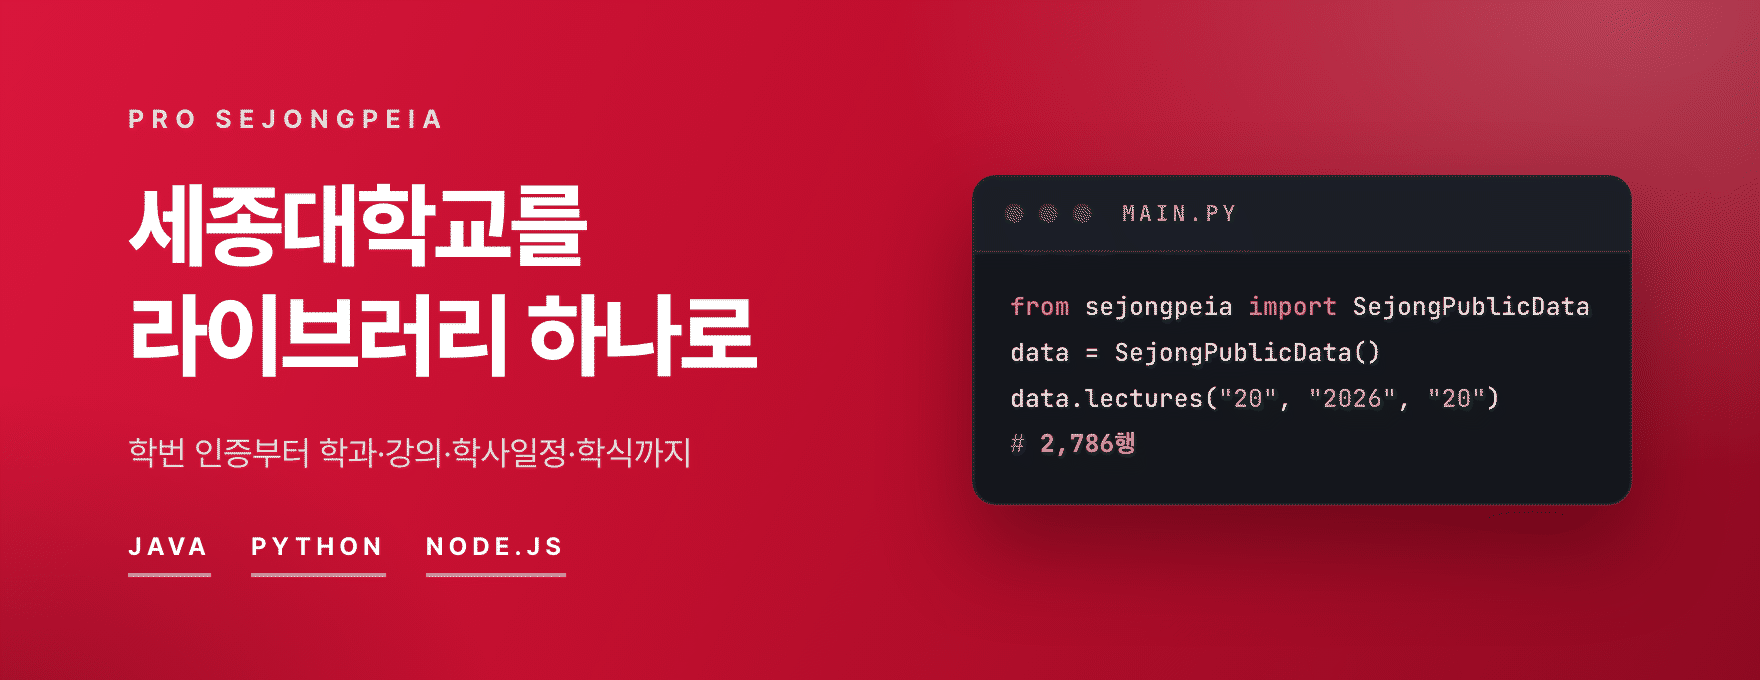
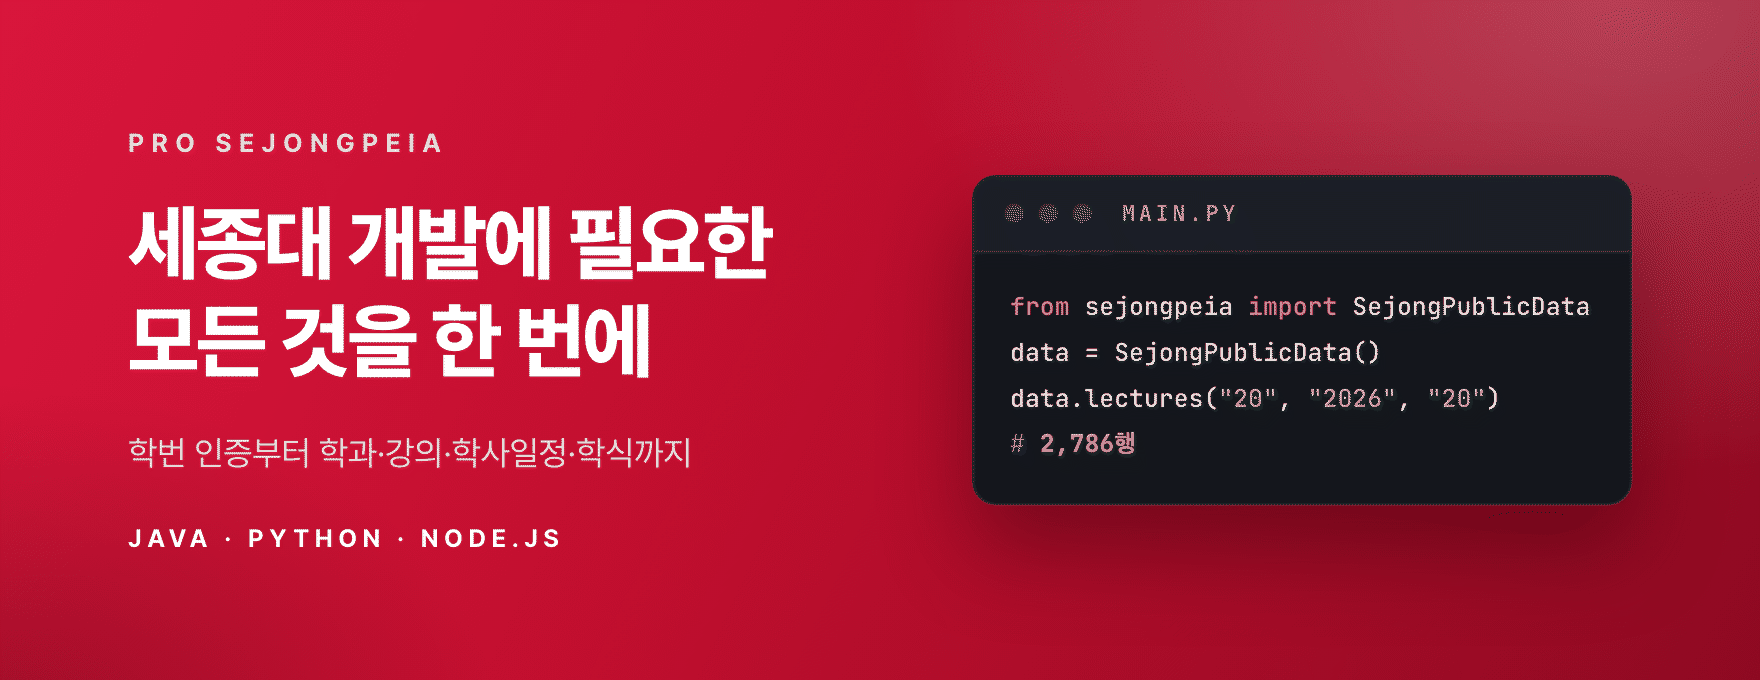
README 첫 화면에 기능·강점을 드러내고 배너를 새로 만들기 : docs : 대표 문구를 '세종대 개발에 필요한 모든 것을 한 번에'로 교체하고 Maven Central 배지 주소 수정 https://github.com/Cassiiopeia/pro-sejongpeia/issues/126

diff --git a/scripts/banner/banner.html b/scripts/banner/banner.html
@@ -2,7 +2,7 @@
 <!--
   README·공유 이미지 배너 원본 (단일 원본). PNG 는 scripts/generate-banner.py 가 이 파일을 헤드리스 Chrome 으로 렌더링해 만든다.
   주소 인자: ?variant=a|b|c  &lang=ko|en  &layout=banner|og
-  규칙: 크림슨이 주인공, 요소는 적게 (워드마크, 제목, 한 줄 소개, 코드 창, 칩), 영문은 모두 대문자, 교표는 넣지 않음 (README 맨 위에 따로 있음)
+  규칙: 크림슨이 주인공, 요소는 적게 (워드마크, 제목, 한 줄 소개, 언어 이름, 코드 창), 영문은 모두 대문자, 교표는 넣지 않음 (README 맨 위에 따로 있음)
   문구는 아래 COPY 한 곳에서만 고친다 (코드 창의 2,786 은 2026-10-30 학부 2026학년도 2학기 실측값)
 -->
 <html lang="ko">
@@ -36,13 +36,13 @@
   /* 왼쪽: 워드마크, 제목, 한 줄 소개, 칩 */
   .copy { position: relative; z-index: 1; width: 400px; }
   .wordmark { font-size: 13px; font-weight: 700; letter-spacing: 0.28em; text-transform: uppercase; color: var(--text-sub); }
-  h1 { margin-top: 18px; font-size: 46px; line-height: 1.2; font-weight: 800; letter-spacing: -0.035em; color: var(--text-main); }
+  h1 { margin-top: 18px; font-size: 41px; line-height: 1.2; font-weight: 800; letter-spacing: -0.035em; color: var(--text-main); }
   h1 em { font-style: normal; color: var(--accent-text); }
-  html[lang="en"] h1 { font-size: 35px; line-height: 1.22; letter-spacing: -0.01em; text-transform: uppercase; font-weight: 800; }
+  html[lang="en"] h1 { font-kerning: normal; text-rendering: optimizeLegibility; font-size: 31px; line-height: 1.25; letter-spacing: 0.01em; text-transform: uppercase; font-weight: 800; }
+  .tight { letter-spacing: -0.07em; }
   .sub { margin-top: 18px; font-size: 17px; line-height: 1.55; word-break: keep-all; color: var(--text-sub); letter-spacing: -0.01em; }
   html[lang="en"] .sub { font-size: 13px; letter-spacing: 0.14em; text-transform: uppercase; font-weight: 600; line-height: 1.8; }
-  .chips { display: flex; gap: 20px; margin-top: 26px; }
-  .chip { font-size: 12.5px; font-weight: 700; letter-spacing: 0.2em; text-transform: uppercase; color: var(--text-main); padding-bottom: 6px; border-bottom: 2px solid var(--chip-line); }
+  .languages { margin-top: 22px; font-size: 12.5px; font-weight: 700; letter-spacing: 0.22em; text-transform: uppercase; color: var(--text-main); }
 
   /* 오른쪽: 코드 창 하나 */
   .window { position: relative; z-index: 1; width: 330px; border-radius: 12px; background: var(--window-background); border: 1px solid var(--window-border); box-shadow: var(--window-shadow); overflow: hidden; }
@@ -56,7 +56,7 @@
   body[data-variant="a"] {
     --stage-background: linear-gradient(115deg, #D9163C 0%, #C20F2F 42%, #8E0A22 100%);
     --stage-decoration: radial-gradient(520px 340px at 92% 0%, rgba(255,255,255,0.22), transparent 70%), radial-gradient(360px 260px at 0% 110%, rgba(60,0,12,0.35), transparent 70%);
-    --text-main: #FFFFFF; --text-sub: rgba(255,255,255,0.84); --text-faint: #8B93A3; --accent-text: #FFFFFF; --chip-line: rgba(255,255,255,0.55);
+    --text-main: #FFFFFF; --text-sub: rgba(255,255,255,0.84); --text-faint: #8B93A3; --accent-text: #FFFFFF; 
     --window-background: #14161C; --window-border: rgba(255,255,255,0.10); --window-bar: #1B1E26; --window-dot: #343A47; --window-shadow: 0 22px 44px rgba(50,0,10,0.45);
     --code-text: #D7DBE4; --code-keyword: #FF7A90; --code-string: #7FD6A8; --code-comment: #6F7889; --code-number: #FFD27A;
   }
@@ -64,7 +64,7 @@
   body[data-variant="b"] {
     --stage-background: linear-gradient(120deg, #A30D27 0%, #7A0A1F 55%, #4E0614 100%);
     --stage-decoration: radial-gradient(480px 320px at 88% 10%, rgba(255,75,103,0.35), transparent 70%);
-    --text-main: #FFFFFF; --text-sub: rgba(255,255,255,0.80); --text-faint: #8A95A3; --accent-text: #FFB3C0; --chip-line: rgba(255,179,192,0.6);
+    --text-main: #FFFFFF; --text-sub: rgba(255,255,255,0.80); --text-faint: #8A95A3; --accent-text: #FFB3C0; 
     --window-background: #FFFFFF; --window-border: rgba(255,255,255,0.4); --window-bar: #F6F1EE; --window-dot: #D9D2CB; --window-shadow: 0 22px 44px rgba(30,0,6,0.5);
     --code-text: #2B3745; --code-keyword: #C20F2F; --code-string: #1F7A4D; --code-comment: #8A95A3; --code-number: #A15B00;
   }
@@ -72,7 +72,7 @@
   body[data-variant="c"] {
     --stage-background: #FBF8F4;
     --stage-decoration: linear-gradient(115deg, transparent 0 56%, #C20F2F 56% 100%), radial-gradient(420px 300px at 100% 0%, rgba(255,255,255,0.25), transparent 70%);
-    --text-main: #1B2733; --text-sub: #4A5868; --text-faint: #8B93A3; --accent-text: #C20F2F; --chip-line: #C20F2F;
+    --text-main: #1B2733; --text-sub: #4A5868; --text-faint: #8B93A3; --accent-text: #C20F2F; 
     --window-background: #14161C; --window-border: rgba(255,255,255,0.10); --window-bar: #1B1E26; --window-dot: #343A47; --window-shadow: 0 22px 44px rgba(50,0,10,0.35);
     --code-text: #D7DBE4; --code-keyword: #FF7A90; --code-string: #7FD6A8; --code-comment: #6F7889; --code-number: #FFD27A;
   }
@@ -84,7 +84,7 @@
     <div class="wordmark">Pro Sejongpeia</div>
     <h1 id="title"></h1>
     <p class="sub" id="sub"></p>
-    <div class="chips"><span class="chip">Java</span><span class="chip">Python</span><span class="chip">Node.js</span></div>
+    <p class="languages">Java · Python · Node.js</p>
   </div>
   <div class="window">
     <div class="window-bar"><span></span><span></span><span></span><b>main.py</b></div>
@@ -97,8 +97,8 @@ data.lectures(<span class="s">"20"</span>, <span class="s">"2026"</span>, <span 
 <script>
   // 문구 단일 원본 (영문은 CSS 로 대문자 처리)
   const COPY = {
-    ko: { title: '세종대학교를<br><em>라이브러리 하나로</em>', sub: '학번 인증부터 학과·강의·학사일정·학식까지', rows: '2,786행' },
-    en: { title: 'Sejong University<br><em>in one library</em>', sub: 'Student login · departments · lectures<br>calendar · cafeteria · campus', rows: '2,786 rows' },
+    ko: { title: '세종대 개발에 필요한<br><em>모든 것을 한 번에</em>', sub: '학번 인증부터 학과·강의·학사일정·학식까지', rows: '2,786행' },
+    en: { title: 'EVER<span class="tight">Y</span>THING you need<br>to build on<br><em>Sejong University</em>', sub: 'Student login · departments · lectures<br>calendar · cafeterias', rows: '2,786 rows' },
   };
   const query = new URLSearchParams(location.search);
   const variant = query.get('variant') || 'a', language = query.get('lang') || 'ko', layout = query.get('layout') || 'banner';

diff --git a/website/src/i18n/landing/heroCopy.ts b/website/src/i18n/landing/heroCopy.ts
@@ -9,10 +9,10 @@ export const HERO_COPY: Record<LandingLocale, HeroSectionsCopy> = {
   ko: {
     hero: {
       eyebrow: 'Pro Sejongpeia · 세종대 개발자들의 작은 유토피아',
-      titleLine: '세종대학교를',
-      titleEmphasis: '라이브러리 하나로',
-      lead: '학번 인증과 학교 공개 데이터 15가지(학과·강의·학사일정·기숙사·학식·캠퍼스·비교과)를 Java, Python, Node.js 호출 한 번으로. 같은 메서드, 같은 결과입니다.',
-      tagline: '빠르고 가볍게 · 요청은 아끼고 · 비밀번호는 저장하지 않고 · 매일 실제 포털로 점검',
+      titleLine: '세종대 개발에 필요한',
+      titleEmphasis: '모든 것을 한 번에',
+      lead: '학번 인증부터 학과·강의·학사일정·학식까지. 학교 공개 데이터 15가지를 Java · Python · Node.js에서 같은 메서드, 같은 결과로 받습니다.',
+      tagline: '가볍고 빠르게 · 요청은 아끼고 · 비밀번호는 저장하지 않고 · 매일 실제 포털로 점검',
       visualRowsComment: `${SCHOOL_DATA_SNAPSHOT.lectureRowCount}행`,
       tryDemo: '바로 체험하기',
       quickStart: '빠른 시작',
@@ -40,9 +40,9 @@ export const HERO_COPY: Record<LandingLocale, HeroSectionsCopy> = {
   en: {
     hero: {
       eyebrow: 'Pro Sejongpeia · A little utopia for Sejong developers',
-      titleLine: 'Sejong University',
-      titleEmphasis: 'in one library',
-      lead: 'Student verification and 15 kinds of public school data (departments, lectures, calendar, dormitory, cafeterias, campus, extracurricular) in one call from Java, Python or Node.js. The same methods, the same results.',
+      titleLine: 'Everything you need',
+      titleEmphasis: 'to build on Sejong University',
+      lead: 'From student login to departments, lectures, the academic calendar and cafeterias. 15 kinds of public school data, with the same methods and the same results in Java · Python · Node.js.',
       tagline: 'Fast and light · gentle on requests · never stores a password · checked against the real portal daily',
       visualRowsComment: `${SCHOOL_DATA_SNAPSHOT.lectureRowCount} rows`,
       tryDemo: 'Try it live',

diff --git a/website/src/i18n/landing/constants.ts b/website/src/i18n/landing/constants.ts
@@ -21,7 +21,7 @@ export const SCHOOL_DATA_SNAPSHOT = {
 export const PACKAGE_BADGES = [
   {
     name: 'Maven Central',
-    imageUrl: 'https://img.shields.io/maven-central/v/kr.suhsaechan/sejongpeia?label=Maven%20Central&color=C20F2F',
+    imageUrl: 'https://img.shields.io/maven-metadata/v?metadataUrl=https%3A%2F%2Frepo1.maven.org%2Fmaven2%2Fkr%2Fsuhsaechan%2Fsejongpeia%2Fmaven-metadata.xml&label=Maven%20Central&color=C20F2F',
     linkUrl: 'https://central.sonatype.com/artifact/kr.suhsaechan/sejongpeia',
   },
   {

diff --git a/website/src/styles/custom.css b/website/src/styles/custom.css
@@ -120,6 +120,11 @@ body {
   margin: 1.1rem 0 1rem !important;
   color: #fff;
 }
+:root[lang='en'] .landing-hero__title {
+  font-size: clamp(1.7rem, 4.8vw, 2.7rem);
+  letter-spacing: 0;
+  text-transform: uppercase;
+}
 .landing-hero__title em {
   font-style: normal;
   color: #fff;

diff --git a/README.md b/README.md
@@ -2,10 +2,11 @@
 
 <img src="docs/assets/sejong-seal.png" alt="Sejong University seal" width="120">
 
-<img src="docs/assets/banner/banner-a.ko.png" alt="pro-sejongpeia: 세종대학교를 라이브러리 하나로. 학번 인증과 학과·강의·학사일정·학식·캠퍼스 데이터를 Java, Python, Node.js로" width="880">
+<img src="docs/assets/banner/banner-a.ko.png" alt="pro-sejongpeia: 세종대 개발에 필요한 모든 것을 한 번에. 학번 인증부터 학과·강의·학사일정·학식까지, Java · Python · Node.js" width="880">
 
-**세종대 학번 인증과 학교 공개 데이터 15가지를 Java · Python · Node.js 호출 한 번으로.**
-빠르고 가볍게 · 요청은 아끼고 · 비밀번호는 저장하지 않고 · 매일 실제 포털로 점검합니다.
+**세종대 개발에 필요한 모든 것을 한 번에.**
+학번 인증부터 학과·강의·학사일정·학식까지, Java · Python · Node.js 호출 한 번으로 받습니다.
+가볍고 빠르며, 요청은 아끼고, 비밀번호는 저장하지 않으며, 매일 실제 포털로 점검합니다.
 
 <sub>세종대 로그인 API · 세종대학교 포털 인증 · 학번 인증 · 학교 데이터 라이브러리</sub>
 
@@ -14,7 +15,7 @@
 <!-- AUTO-VERSION-SECTION: DO NOT EDIT MANUALLY -->
 ## 최신 버전 : v1.2.61 (2026-10-30)
 
-[![Maven Central](https://img.shields.io/maven-central/v/kr.suhsaechan/sejongpeia?label=Maven%20Central&color=C20F2F)](https://central.sonatype.com/artifact/kr.suhsaechan/sejongpeia)
+[![Maven Central](https://img.shields.io/maven-metadata/v?metadataUrl=https%3A%2F%2Frepo1.maven.org%2Fmaven2%2Fkr%2Fsuhsaechan%2Fsejongpeia%2Fmaven-metadata.xml&label=Maven%20Central&color=C20F2F)](https://central.sonatype.com/artifact/kr.suhsaechan/sejongpeia)
 [![PyPI](https://img.shields.io/pypi/v/pro-sejongpeia?label=PyPI&color=324D60)](https://pypi.org/project/pro-sejongpeia/)
 [![npm](https://img.shields.io/npm/v/pro-sejongpeia?label=npm&color=324D60)](https://www.npmjs.com/package/pro-sejongpeia)
 [![License: MIT](https://img.shields.io/badge/License-MIT-324D60)](LICENSE)
@@ -61,7 +62,7 @@
 - **비밀번호를 저장하지 않습니다.** 포털 로그인 요청에만 쓰고, 오류 메시지에 담기지 않습니다 (테스트 `test_error_message_never_contains_password`).
 - **첫 실패에서 멈춥니다.** 비밀번호가 틀리면 재시도 없이 `AUTHENTICATION_FAILED`로 끝내 계정 잠금을 피하고, 잠긴 계정은 `ACCOUNT_LOCKED`로 알려 줍니다.
 - SIS 부가 필드(`extra`)에서 세션값·접속 IP·계정 상태·주민번호·계좌·주소·직원 이름을 **항상 제외**하고, 학교 서버의 내부 오류 정보는 돌려주지 않습니다.
-- 학교 서버가 실패해도 앱은 안 흔들립니다. 공개 데이터는 예외 대신 마지막 캐시 값이나 빈 목록을 줍니다.
+- 학교 서버가 실패해도 앱이 흔들리지 않습니다. 공개 데이터는 예외 대신 마지막 캐시 값이나 빈 목록을 줍니다.
 
 ### ✅ 믿을 수 있게
 
@@ -183,7 +184,7 @@ System.out.println(result.getName() + " " + result.getMajor() + " " + result.get
 
 ## 빠른 시작: Java / Spring Boot
 
-[![Maven Central](https://img.shields.io/maven-central/v/kr.suhsaechan/sejongpeia?label=Maven%20Central&color=C20F2F)](https://central.sonatype.com/artifact/kr.suhsaechan/sejongpeia)
+[![Maven Central](https://img.shields.io/maven-metadata/v?metadataUrl=https%3A%2F%2Frepo1.maven.org%2Fmaven2%2Fkr%2Fsuhsaechan%2Fsejongpeia%2Fmaven-metadata.xml&label=Maven%20Central&color=C20F2F)](https://central.sonatype.com/artifact/kr.suhsaechan/sejongpeia)
 
 **Maven Central**에서 배포합니다 (저장소 추가 불필요). Java 17+, Spring Boot 3.x. Spring Boot 자동 설정이 `SuhSejongAuthEngine`과 `SejongPublicData` 빈을 등록합니다.
 

diff --git a/README.en.md b/README.en.md
@@ -2,16 +2,17 @@
 
 <img src="docs/assets/sejong-seal.png" alt="Sejong University seal" width="120">
 
-<img src="docs/assets/banner/banner-a.en.png" alt="pro-sejongpeia: Sejong University in one library. Student login verification plus departments, lectures, academic calendar, cafeteria and campus data for Java, Python and Node.js" width="880">
+<img src="docs/assets/banner/banner-a.en.png" alt="pro-sejongpeia: everything you need to build on Sejong University. Student login, departments, lectures, academic calendar and cafeterias for Java, Python and Node.js" width="880">
 
-**Student login verification and 15 kinds of public Sejong University data, in one call from Java, Python or Node.js.**
-Fast and light · gentle on requests · never stores a password · checked against the real portal every day.
+**Everything you need to build on Sejong University, in one library.**
+From student login to departments, lectures, the academic calendar and cafeterias, one call from Java, Python or Node.js.
+Fast and light, gentle on requests, never stores a password, and checked against the real portal every day.
 
 <sub>세종대 로그인 API · 세종대학교 포털 인증 · 학번 인증 라이브러리 (Java · Python · Node)</sub>
 
 [Site](https://cassiiopeia.github.io/pro-sejongpeia/) · [Try it in the browser](https://cassiiopeia.github.io/pro-sejongpeia/#demo) · [What you get](#what-you-get) · [Try it now](#try-it-now) · [Docs](#more-integration-examples-and-api-stability) · [한국어](README.md) | English
 
-[![Maven Central](https://img.shields.io/maven-central/v/kr.suhsaechan/sejongpeia?label=Maven%20Central&color=C20F2F)](https://central.sonatype.com/artifact/kr.suhsaechan/sejongpeia)
+[![Maven Central](https://img.shields.io/maven-metadata/v?metadataUrl=https%3A%2F%2Frepo1.maven.org%2Fmaven2%2Fkr%2Fsuhsaechan%2Fsejongpeia%2Fmaven-metadata.xml&label=Maven%20Central&color=C20F2F)](https://central.sonatype.com/artifact/kr.suhsaechan/sejongpeia)
 [![PyPI](https://img.shields.io/pypi/v/pro-sejongpeia?label=PyPI&color=324D60)](https://pypi.org/project/pro-sejongpeia/)
 [![npm](https://img.shields.io/npm/v/pro-sejongpeia?label=npm&color=324D60)](https://www.npmjs.com/package/pro-sejongpeia)
 [![License: MIT](https://img.shields.io/badge/License-MIT-324D60)](LICENSE)
@@ -180,7 +181,7 @@ Error handling and Spring setup are in the [quick start](#quick-start-java--spri
 
 ## Quick start: Java / Spring Boot
 
-[![Maven Central](https://img.shields.io/maven-central/v/kr.suhsaechan/sejongpeia?label=Maven%20Central&color=C20F2F)](https://central.sonatype.com/artifact/kr.suhsaechan/sejongpeia)
+[![Maven Central](https://img.shields.io/maven-metadata/v?metadataUrl=https%3A%2F%2Frepo1.maven.org%2Fmaven2%2Fkr%2Fsuhsaechan%2Fsejongpeia%2Fmaven-metadata.xml&label=Maven%20Central&color=C20F2F)](https://central.sonatype.com/artifact/kr.suhsaechan/sejongpeia)
 
 Published to **Maven Central** (no extra repository needed). Java 17+, Spring Boot 3.x. Spring Boot auto-configuration registers the `SuhSejongAuthEngine` and `SejongPublicData` beans.
 

diff --git a/node/README.md b/node/README.md
@@ -1,8 +1,8 @@
 # pro-sejongpeia (Node.js)
 
-![pro-sejongpeia: 세종대학교를 라이브러리 하나로. 학번 인증과 학과·강의·학사일정·학식·캠퍼스 데이터](https://raw.githubusercontent.com/Cassiiopeia/pro-sejongpeia/main/docs/assets/banner/banner-a.ko.png)
+![pro-sejongpeia: 세종대 개발에 필요한 모든 것을 한 번에. 학번 인증부터 학과·강의·학사일정·학식까지](https://raw.githubusercontent.com/Cassiiopeia/pro-sejongpeia/main/docs/assets/banner/banner-a.ko.png)
 
-**세종대 학번 인증과 학교 공개 데이터 15가지를 Node.js 호출 한 번으로.** 요청은 아끼고, 비밀번호는 저장하지 않고, 매일 실제 포털로 점검합니다.
+**세종대 개발에 필요한 모든 것을 한 번에.** 학번 인증부터 학과·강의·학사일정·학식까지, Node.js 호출 한 번으로 받습니다. 요청은 아끼고, 비밀번호는 저장하지 않으며, 매일 실제 포털로 점검합니다.
 
 [사이트](https://cassiiopeia.github.io/pro-sejongpeia/) · [브라우저에서 체험](https://cassiiopeia.github.io/pro-sejongpeia/#demo) · [전체 기능표](https://github.com/Cassiiopeia/pro-sejongpeia#기능) · [GitHub](https://github.com/Cassiiopeia/pro-sejongpeia) · 한국어 | [English](https://github.com/Cassiiopeia/pro-sejongpeia/blob/main/README.en.md)
 

diff --git a/python/README.md b/python/README.md
@@ -1,8 +1,8 @@
 # pro-sejongpeia (Python)
 
-![pro-sejongpeia: 세종대학교를 라이브러리 하나로. 학번 인증과 학과·강의·학사일정·학식·캠퍼스 데이터](https://raw.githubusercontent.com/Cassiiopeia/pro-sejongpeia/main/docs/assets/banner/banner-a.ko.png)
+![pro-sejongpeia: 세종대 개발에 필요한 모든 것을 한 번에. 학번 인증부터 학과·강의·학사일정·학식까지](https://raw.githubusercontent.com/Cassiiopeia/pro-sejongpeia/main/docs/assets/banner/banner-a.ko.png)
 
-**세종대 학번 인증과 학교 공개 데이터 15가지를 Python 호출 한 번으로.** 요청은 아끼고, 비밀번호는 저장하지 않고, 매일 실제 포털로 점검합니다.
+**세종대 개발에 필요한 모든 것을 한 번에.** 학번 인증부터 학과·강의·학사일정·학식까지, Python 호출 한 번으로 받습니다. 요청은 아끼고, 비밀번호는 저장하지 않으며, 매일 실제 포털로 점검합니다.
 
 [사이트](https://cassiiopeia.github.io/pro-sejongpeia/) · [브라우저에서 체험](https://cassiiopeia.github.io/pro-sejongpeia/#demo) · [전체 기능표](https://github.com/Cassiiopeia/pro-sejongpeia#기능) · [GitHub](https://github.com/Cassiiopeia/pro-sejongpeia) · 한국어 | [English](https://github.com/Cassiiopeia/pro-sejongpeia/blob/main/README.en.md)
 
